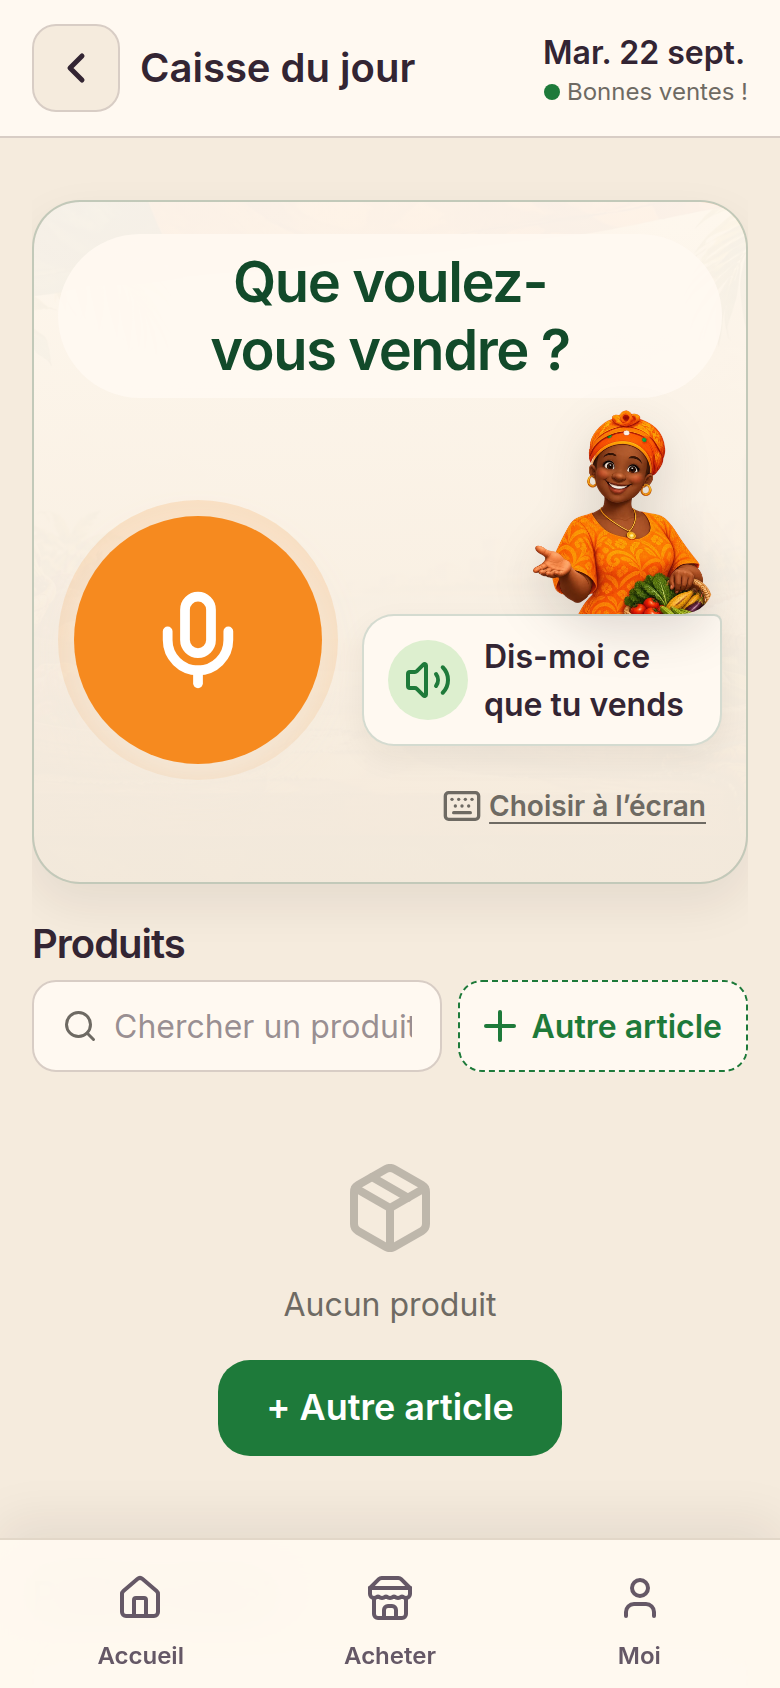
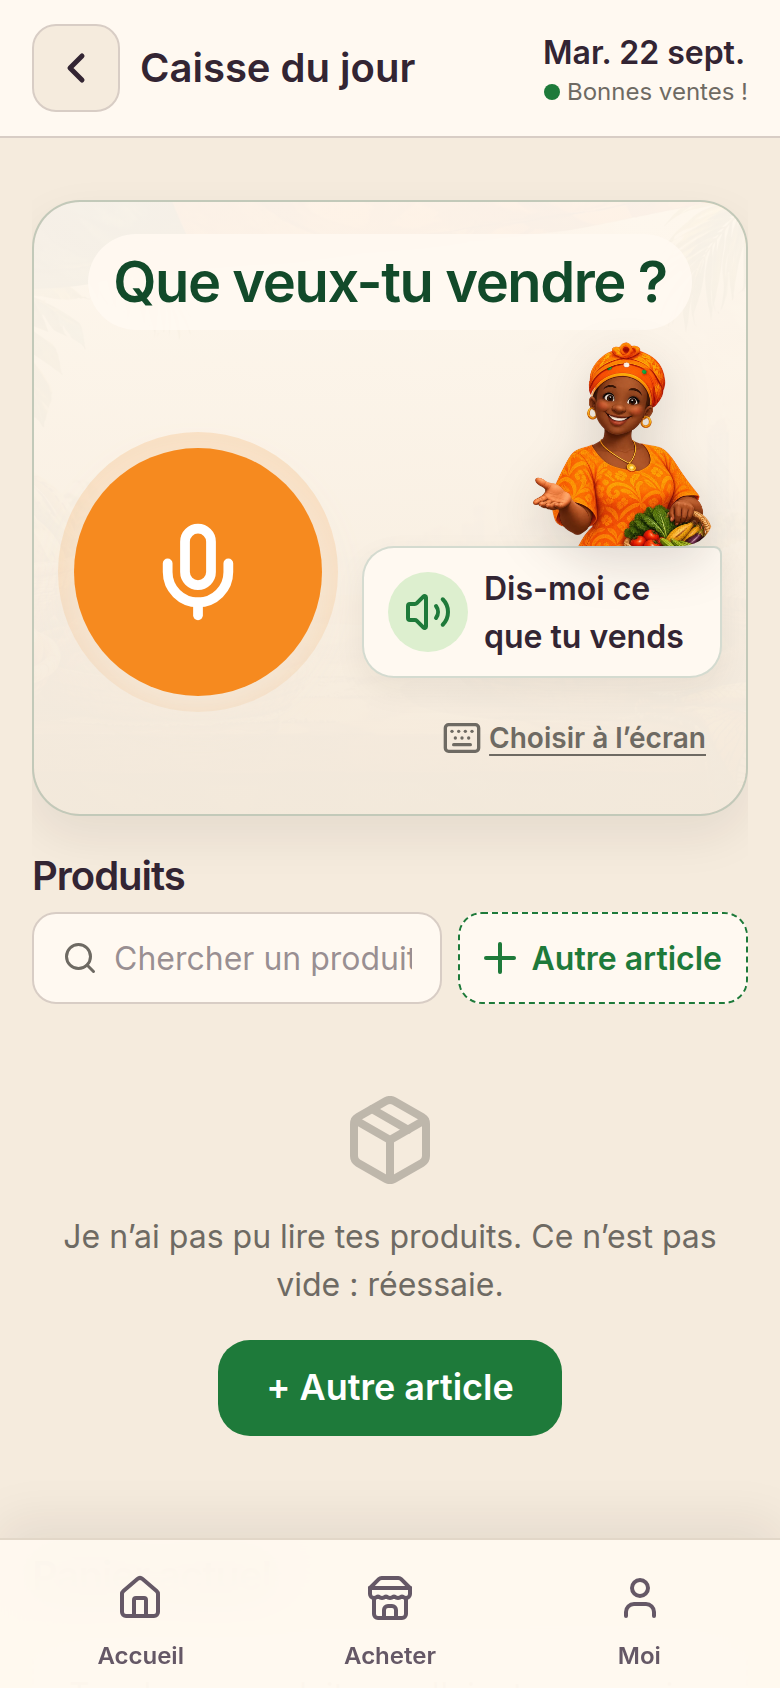
caisse(CAI-01/02): « Aucun produit » cesse de mentir, et Tantie tutoie
GARDE-ASSOUPLIE: le litteral « Que voulez-vous vendre ? » etait fige comme H1
par caisseCharte.test.mts. C'est LUI qui tenait le vouvoiement : Patrick a
ordonne de le fermer (22/09/2026, « ferme le vouvoiement restant a l'ecran et
a voix haute »). L'assertion n'est pas supprimee, elle est REMPLACEE par une
plus forte : le H1 ne doit porter aucun texte en dur et lire la cle de
catalogue. Le compte d'assertions a neanmoins bouge — voir plus bas.

Ecran 5, le dernier du chemin de vente.

── CAI-01 : LE FAUX « AUCUN PRODUIT » ──────────────────────────────────────
Banc : « l'ecran a demande au serveur (6 lectures), n'a rien obtenu, et
affirme quand meme "Aucun produit" ». C'est l'ecran de VENTE. Une marchande
qui lit ca range son telephone et vend sans lui.

`loadProducts` avalait l'echec et se repliait sur le cache — la BONNE
decision sur un marche sans reseau. Mais cache vide aussi : la liste reste
`[]`, et `[]` s'affichait « Aucun produit ». La meme phrase pour « tu n'as
rien cree » et « je n'ai pas pu demander ».

L'echec est desormais CONSERVE, et `services/etatCatalogueCaisse.ts` —
troisieme jumeau volontaire apres etatVentesPassees et etatCaisseAccueil —
dit ce que l'ecran a le droit d'affirmer :

  attente    pas encore de reponse        « Je vais chercher tes produits… »
  illisible  demande, rien, cache vide    « Je n'ai pas pu lire tes produits.
                                             Ce n'est pas vide : reessaie. »
[…]

diff --git a/frontend_src/src/app/contexts/CaisseContext.tsx b/frontend_src/src/app/contexts/CaisseContext.tsx
@@ -10,6 +10,7 @@ import { API_URL } from '../utils/api';
 import { prixEffectif } from '../utils/promo.utils';
 import type { LigneDeVente, ProduitServeur, AliasSaisieProduit } from '../types/vente';
 import { jourLocal } from '../utils/jourLocal';
+import { etatCatalogueCaisse, type EtatCatalogueCaisse, type LectureCatalogue } from '../services/etatCatalogueCaisse';
 // Couche 2 offline : file d'attente durable des ventes/dépenses + synchro.
 import {
   enfilerOperation, synchroniser,
@@ -255,6 +256,11 @@ interface CaisseContextType {
   updateProduct: (id: string, updates: Partial<CaisseProduct>) => Promise<void>;
   deleteProduct: (id: string) => Promise<void>;
   refreshProducts: () => Promise<void>;
+  /** CAI-01 — ce que la caisse a le DROIT d'affirmer sur son catalogue.
+   *  Ne remplace pas `products` : il dit seulement pourquoi la liste
+   *  est ce qu'elle est. Un écran ne peut plus confondre « rien créé »
+   *  et « pas pu demander ». */
+  etatCatalogue: EtatCatalogueCaisse;
   
   // Transactions (alias)
   addTransaction: (tx: Omit<CaisseTransaction, 'id' | 'date'>) => Promise<void>;
@@ -295,6 +301,15 @@ export function CaisseProvider({ children }: { children: ReactNode }) {
   const [transactions, setTransactions] = useState<CaisseTransaction[]>([]);
   const [loading, setLoading] = useState(false);
   const [products, setProducts] = useState<CaisseProduct[]>([]);
+  // ── CAI-01 — OÙ EN EST LA LECTURE DU CATALOGUE ───────────────────────────
+  // `loadProducts` avale son échec et se replie sur le cache du téléphone :
+  // c'est la BONNE décision sur un marché sans réseau. Mais quand le cache est
+  // vide lui aussi, la liste reste `[]` — et `[]` s'affichait « Aucun produit »,
+  // la même phrase que « tu n'as rien créé ». Deux situations, une phrase.
+  // On CONSERVE donc l'information au lieu de la perdre : ce que la caisse a le
+  // droit d'affirmer se décide dans `services/etatCatalogueCaisse.ts`.
+  const [lectureCatalogue, setLectureCatalogue] = useState<LectureCatalogue>('jamais');
+  const [produitsDepuisCache, setProduitsDepuisCache] = useState(false);
   const [cart, setCart] = useState<CartItem[]>([]);
   const [selectedProduct, setSelectedProduct] = useState<CaisseProduct | null>(null);
 
@@ -764,7 +779,12 @@ export function CaisseProvider({ children }: { children: ReactNode }) {
   const restaurerDepuisCache = (cacheKey: string) => {
     try {
       const raw = localStorage.getItem(cacheKey);
-      if (raw) setProducts(JSON.parse(raw));
+      if (raw) {
+        setProducts(JSON.parse(raw));
+        // On NOTE que ces produits viennent du téléphone, pas du serveur.
+        // Les montrer est juste ; les présenter comme à jour ne l'est pas.
+        setProduitsDepuisCache(true);
+      }
     } catch { /* un cache illisible ne doit jamais casser l'écran */ }
   };
 
@@ -773,6 +793,7 @@ export function CaisseProvider({ children }: { children: ReactNode }) {
       try { const r = localStorage.getItem('julaba_auth_user'); const id = r ? (JSON.parse(r).id || 'anon') : 'anon'; return `julaba_cache_produits_${id}`; }
       catch { return 'julaba_cache_produits_anon'; }
     })();
+    setLectureCatalogue('chargement');
     try {
       // UN SERVEUR QUI RÉPOND MAL EST PIRE QU'UN SERVEUR ABSENT — corrigé le
       // 18/09/2026. Le catalogue restait VIDE sur un 500/503 alors que le cache
@@ -800,11 +821,15 @@ export function CaisseProvider({ children }: { children: ReactNode }) {
         promo_fin: p.promo_fin || null,
       }));
       setProducts(mapped);
+      setProduitsDepuisCache(false);
+      setLectureCatalogue('lu');
       // Cache local : derniers produits connus (vente/stock consultables hors-ligne).
       try { localStorage.setItem(cacheKey, JSON.stringify(mapped)); } catch { /* ignore */ }
     } catch (err: unknown) {
       console.warn('[CaisseContext] loadProducts failed:', err instanceof Error ? err.message : err);
-      // Hors-ligne : servir les derniers produits connus.
+      // Hors-ligne : servir les derniers produits connus. L'échec n'est plus
+      // avalé — il est CONSERVÉ, pour que l'écran cesse de dire « aucun ».
+      setLectureCatalogue('echec');
       restaurerDepuisCache(cacheKey);
     }
   }, []);
@@ -940,6 +965,12 @@ export function CaisseProvider({ children }: { children: ReactNode }) {
     updateProduct,
     deleteProduct,
     refreshProducts: loadProducts,
+    // La règle vit dans un module pur, pas ici : elle est relisible seule.
+    etatCatalogue: etatCatalogueCaisse({
+      lecture: lectureCatalogue,
+      nbProduits: products.length,
+      servisDepuisCache: produitsDepuisCache,
+    }),
     addTransaction,
     getSoldeJour,
     getVentesJour,

diff --git a/frontend_src/src/app/services/etatCatalogueCaisse.ts b/frontend_src/src/app/services/etatCatalogueCaisse.ts
@@ -1,0 +1,72 @@
+/**
+ * CE QUE LA CAISSE A LE DROIT D'AFFIRMER SUR LE CATALOGUE — CAI-01.
+ *
+ * LE DÉFAUT QU'ON FERME. Banc terrain, écran 5 : « ZÉRO QUI MENT — l'écran a
+ * demandé au serveur (6 lectures), n'a rien obtenu, et affirme quand même
+ * "Aucun produit" ». C'est l'écran de VENTE. Une marchande qui lit « Aucun
+ * produit » range son téléphone et vend sans lui.
+ *
+ * D'OÙ VENAIT L'AFFIRMATION. `CaisseContext.loadProducts` avale l'échec
+ * (`catch { console.warn(…) ; restaurerDepuisCache(…) }`). Le repli sur le
+ * cache est la BONNE décision — un marché n'a pas de réseau. Mais quand le
+ * cache est vide lui aussi, la liste reste `[]`, et `[]` s'affiche « Aucun
+ * produit » : la même phrase pour « tu n'as rien créé » et pour « je n'ai pas
+ * pu demander ». Deux situations, une seule phrase.
+ *
+ * TROISIÈME JUMEAU VOLONTAIRE, après `etatVentesPassees` (HIST-01) et
+ * `etatCaisseAccueil` (ACC-01) : trois écrans, une seule façon de dire « je ne
+ * sais pas ». Sur les branches non résolues, `nbProduits` N'EXISTE PAS — le
+ * compilateur refuse de l'afficher avant même le banc.
+ *
+ * CE MODULE NE LIT NI NE COMPTE RIEN. Il reçoit trois faits et rend un état.
+ */
+import type { LectureHistorique } from './etatVentesPassees';
+
+/** Réutilise le vocabulaire de HIST-01 : mêmes mots pour la même idée. */
+export type LectureCatalogue = LectureHistorique;
+
+export type EtatCatalogueCaisse =
+  /** Pas encore de réponse. Ni liste, ni « aucun ». */
+  | { readonly type: 'attente' }
+  /** On a demandé, on n'a rien obtenu, et le téléphone n'avait rien en réserve. */
+  | { readonly type: 'illisible' }
+  /** Le serveur n'a pas répondu, mais le téléphone se souvient. Ces produits
+   *  existent ; ils sont PÉRIMÉS, pas faux. On ne dit donc jamais « aucun ». */
+  | { readonly type: 'memoire'; readonly nbProduits: number }
+  /** Le serveur a répondu et il n'a rien : la SEULE situation où « aucun
+   *  produit » est vrai. */
+  | { readonly type: 'vide' }
+  /** Le serveur a répondu et il y a des produits. */
+  | { readonly type: 'liste'; readonly nbProduits: number };
+
+export interface FaitsCatalogueCaisse {
+  /** Où en est la dernière lecture du catalogue serveur. */
+  readonly lecture: LectureCatalogue;
+  /** Combien de produits la caisse porte À L'ÉCRAN, cache compris. */
+  readonly nbProduits: number;
+  /** Ces produits viennent-ils du cache du téléphone plutôt que du serveur ? */
+  readonly servisDepuisCache: boolean;
+}
+
+export function etatCatalogueCaisse(faits: FaitsCatalogueCaisse): EtatCatalogueCaisse {
+  const nbProduits = Math.max(0, Math.trunc(faits.nbProduits) || 0);
+
+  if (faits.lecture === 'echec') {
+    // Le cache a sauvé l'écran : on montre, mais on ne présente pas ça comme
+    // l'état du serveur. Sans cache, on ne sait rien — et on le dit.
+    return faits.servisDepuisCache && nbProduits > 0
+      ? { type: 'memoire', nbProduits }
+      : { type: 'illisible' };
+  }
+
+  if (faits.lecture === 'jamais' || faits.lecture === 'chargement') {
+    return nbProduits > 0 ? { type: 'memoire', nbProduits } : { type: 'attente' };
+  }
+
+  // LE SERVEUR A RÉPONDU. Une incohérence reste possible : il a répondu, la
+  // liste est vide, et l'écran annonce pourtant servir le cache (course entre
+  // deux rendus). Deux faits qui se contredisent ne font pas une certitude :
+  // on n'affirme pas « aucun produit ».
+  if (nbProduits === 0) return faits.servisDepuisCache ? { type: 'illisible' } : { type: 'vide' };
+  return { type: 'liste', nbProduits };
+}

diff --git a/frontend_src/src/app/components/marchand/POSCaisse.tsx b/frontend_src/src/app/components/marchand/POSCaisse.tsx
@@ -63,7 +63,7 @@ function POSCaisseInner() {
   // convention déjà en place dans JULABA (voir RoleDashboard, LoginPassword…),
   // donc lisible, testable, et vide quand on arrive autrement.
   const produitPreselectionne = ((location.state as { produitPreselectionne?: ProduitPreselectionne } | null)?.produitPreselectionne) ?? null;
-  const { products, cart, addToCart, removeFromCart, updateCartItemQuantity, updateCartItemPrice, clearCart, getTotalCart, enregistrerVente, refreshProducts, transactions } = useCaisse();
+  const { products, cart, addToCart, removeFromCart, updateCartItemQuantity, updateCartItemPrice, clearCart, getTotalCart, enregistrerVente, refreshProducts, transactions, etatCatalogue } = useCaisse();
   const { speak, reloadTransactions, user, isOnline } = useApp();
   const marchandNom = [user?.firstName, user?.lastName].filter(Boolean).join(' ') || (user as any)?.nom || 'Ma boutique';
   // La caisse SUIT le sous-profil (docs/SOUS_PROFILS_MARCHAND.md) : en négoce
@@ -1171,7 +1171,20 @@ function POSCaisseInner() {
           {filtered.length === 0 ? (
             <div style={{ textAlign:'center', padding:'var(--caisse-esp-7) 0', color:'var(--caisse-gris-texte)', font:'var(--caisse-font-texte)' }}>
               <Package size={48} style={{ margin:'0 auto var(--caisse-esp-3)', opacity:0.4 }} />
-              <p style={{ marginBottom:'var(--caisse-esp-4)' }}>Aucun produit</p>
+              {/* CAI-01 — « AUCUN PRODUIT » N'EST DIT QUE SI LE SERVEUR L'A RÉPONDU.
+                  Le banc : « l'écran a demandé au serveur, n'a rien obtenu, et
+                  affirme quand même "Aucun produit" ». C'est l'écran de VENTE :
+                  une marchande qui lit ça range son téléphone. Trois situations,
+                  trois phrases — jamais une seule pour toutes. */}
+              {etatCatalogue.type === 'illisible' ? (
+                <p style={{ marginBottom:'var(--caisse-esp-4)' }}>
+                  Je n’ai pas pu lire tes produits. Ce n’est pas vide&nbsp;: réessaie.
+                </p>
+              ) : etatCatalogue.type === 'attente' ? (
+                <p style={{ marginBottom:'var(--caisse-esp-4)' }}>Je vais chercher tes produits…</p>
+              ) : (
+                <p style={{ marginBottom:'var(--caisse-esp-4)' }}>Aucun produit</p>
+              )}
               <motion.button type="button" whileTap={{ scale:0.97 }} onClick={() => setShowLibre(true)}
                 style={{ minHeight:'var(--caisse-cible-tactile)', padding:'var(--caisse-esp-3) var(--caisse-esp-5)', borderRadius:'var(--caisse-rayon-4)', border:'none', background:'var(--caisse-vert)', color:'white', font:'var(--caisse-font-bouton)', cursor:'pointer', fontFamily:'inherit' }}>
                 + Autre article

diff --git a/frontend_src/src/app/i18n/voice/catalog.ts b/frontend_src/src/app/i18n/voice/catalog.ts
@@ -113,7 +113,7 @@ export const MESSAGES_TTS: readonly EntreeTts[] = [
   { id: 'TATA_QUESTION_CORRECTION', type: 'tts', domaine: 'vente', critiqueArgent: true, frActuel: 'Qu\'est-ce qui est faux ? Change la quantité, ou le prix.', frMarche: null, variables: [], audioMode: 'none', statut: 'migre', owner: 'manus', source: 'components/marchand/ConfirmationLigne.tsx:43' },
   { id: 'TATA_DEPENSE_MONTANT_INCOMPRIS', type: 'tts', domaine: 'depense', critiqueArgent: true, frActuel: 'Je n\'ai pas compris combien tu as dépensé. Redis-moi le montant.', frMarche: null, variables: [], audioMode: 'none', statut: 'migre', owner: 'manus', source: 'components/marchand/MicroVenteCaisse.tsx:259,272' },
   { id: 'TATA_MICRO_INTRO_PRESELECTION', type: 'tts', domaine: 'vente', critiqueArgent: false, frActuel: 'Appuie sur le micro, et dis ce que tu as vendu de {produit}.', frMarche: null, variables: ['produit'], audioMode: 'dynamic', statut: 'migre', owner: 'manus', source: 'components/marchand/MicroVenteCaisse.tsx:294' },
-  { id: 'TATA_QUE_VENDRE', type: 'tts', domaine: 'vente', critiqueArgent: false, frActuel: 'Que voulez-vous vendre ?', frMarche: null, variables: [], audioMode: 'none', statut: 'migre', owner: 'manus', source: 'components/marchand/MicroVenteCaisse.tsx:295', note: 'Aussi le H1 de l\'écran (texte affiché, hors i18n vocal).' },
+  { id: 'TATA_QUE_VENDRE', type: 'tts', domaine: 'vente', critiqueArgent: false, frActuel: 'Que veux-tu vendre ?', frMarche: null, variables: [], audioMode: 'none', statut: 'migre', owner: 'manus', source: 'components/marchand/MicroVenteCaisse.tsx:295', note: 'CAI-02 : disait « Que voulez-vous vendre ? ». Tantie TUTOIE — le catalogue vocal ne portait aucun vouvoiement, sauf celui-ci, qui partait aussi a voix haute au montage. Le H1 de l\'ecran lit desormais CETTE cle : une seule source.' },
   { id: 'TATA_PRODUIT_AJOUTE_BOUTIQUE', type: 'tts', domaine: 'vente', critiqueArgent: false, frActuel: 'C\'est fait. {produit} est dans ta boutique.', frMarche: null, variables: ['produit'], audioMode: 'dynamic', statut: 'migre', owner: 'manus', source: 'components/marchand/MicroVenteCaisse.tsx:312' },
   { id: 'TATA_AJOUT_BOUTIQUE_ECHEC', type: 'tts', domaine: 'vente', critiqueArgent: false, frActuel: 'Ça n\'a pas marché. Tu pourras l\'ajouter depuis Mon stock.', frMarche: null, variables: [], audioMode: 'none', statut: 'migre', owner: 'manus', source: 'components/marchand/MicroVenteCaisse.tsx:314' },
   { id: 'TATA_ON_NE_CHANGE_RIEN', type: 'tts', domaine: 'vente', critiqueArgent: false, frActuel: 'D\'accord, on ne change rien.', frMarche: null, variables: [], audioMode: 'none', statut: 'migre', owner: 'manus', source: 'components/marchand/MicroVenteCaisse.tsx:323' },

diff --git a/frontend_src/src/app/components/marchand/MicroVenteCaisse.tsx b/frontend_src/src/app/components/marchand/MicroVenteCaisse.tsx
@@ -464,9 +464,11 @@ export function MicroVenteCaisse({ produitPreselectionne = null, onIntentionEnca
   // La bulle de Tata : une INVITATION à répondre, pas une annonce (arbitrage
   // du 20/09/2026, maquette verte). Au repos elle ne répète pas le grand titre
   // qui est juste au-dessus (UI-02) : « Dis-moi ce que tu vends » — et non
-  // « Je vous écoute », parce que le micro n'écoute pas encore ; ce qui est DIT
+  // « Je t'écoute », parce que le micro n'écoute pas encore ; ce qui est DIT
   // à l'arrivée reste la question du titre (introLigne).
-  const bulle = isRecording ? 'Je vous écoute'
+  // CAI-02 : Tantie TUTOIE. Le catalogue vocal ne porte pas un vouvoiement ;
+  // cette bulle en portait un, seule de tout l'écran avec le grand titre.
+  const bulle = isRecording ? 'Je t’écoute'
     : isLoading ? 'Un instant…'
     : isSpeaking ? 'Tantie parle…'
     : isError ? "Je n'ai pas compris"
@@ -489,7 +491,12 @@ export function MicroVenteCaisse({ produitPreselectionne = null, onIntentionEnca
           ligne ; plus étroit, elle se coupe en deux lignes équilibrées
           (text-wrap: balance), jamais avec le « ? » orphelin. */}
       <h1 className="caisse-voice-question" style={{ font: 'var(--caisse-font-h1)', textWrap: 'balance' }}>
-        {produitPreselectionne ? produitPreselectionne.nom : 'Que voulez-vous vendre ?'}
+        {/* CAI-02 — LA QUESTION N'EST PLUS ÉCRITE DEUX FOIS. Elle vivait ici en
+            dur ET dans le catalogue (`TATA_QUE_VENDRE`), qui est ce qui se DIT
+            au montage. Deux copies d'une même phrase finissent toujours par
+            diverger — et c'est par là que le vouvoiement a survécu à l'oral
+            après avoir été vu à l'écran. Une seule source, désormais. */}
+        {produitPreselectionne ? produitPreselectionne.nom : t('TATA_QUE_VENDRE')}
       </h1>
 
       <div className="caisse-voice-row">

diff --git a/docs/parcours/BACKLOG-PARCOURS.md b/docs/parcours/BACKLOG-PARCOURS.md
@@ -125,6 +125,32 @@ Captures : `docs/parcours/captures/ecran-3/AVANT.png` · `APRES.png`.
 Garde-fou : `test:entree-numero-voix`. Ici le fichier n'était **pas** figé par
 VOICE-01 : correction sur place, sans module parallèle et sans règle en double.
 
+### S5 — Écran 5, Caisse · le dernier du chemin
+
+| Id | Défaut relevé par le banc | Statut |
+|---|---|---|
+| CAI-01 | **Faux « Aucun produit »** — l'écran de VENTE a demandé au serveur, n'a rien obtenu, et affirmait quand même. Une marchande qui lit ça range son téléphone. | **FERMÉ** |
+| CAI-02 | **Vouvoiement, à l'écran ET à voix haute** — « Que voulez-vous vendre ? » était le grand titre ET la phrase dite au montage ; « Je vous écoute » dans la bulle. | **FERMÉ** |
+| CAI-03 | **La question vivait en double** — en dur dans le H1 et dans le catalogue. C'est par là que le vouvoiement a survécu à l'oral après avoir été vu à l'écran. Le H1 lit désormais la clé. | **FERMÉ** |
+| CAI-04 | **Le périmètre d'argent a bougé** : `etatCatalogueCaisse.ts` y est entré (symbole `CaisseContext`). C'est correct — ce module décide ce que l'écran de vente affirme. Le figer demande `--figer-perimetre`. | **OUVERT** — décision de Patrick, jamais d'un agent |
+| CAI-05 | **Une assertion figée a été retirée** : `caisseCharte.test.mts` figeait le littéral « Que voulez-vous vendre ? » comme H1 — c'est lui qui tenait le vouvoiement. Remplacée par une assertion PLUS forte (le H1 ne porte aucun texte en dur et lit la clé), mais le compte d'assertions a bougé. Demande `--figer-gardes`. | **OUVERT** — décision de Patrick, jamais d'un agent |
+| CAI-06 | Le catalogue servi depuis le cache du téléphone est modélisé (état `memoire`) mais pas encore montré : une liste périmée est présentée comme à jour. | **OUVERT** — hors périmètre de ce lot (« pas de dettes voisines ») |
+
+**Preuve de fermeture** (banc, écran 5, sans réseau) :
+
+```
+avant : ZERO QUI MENT (« Aucun produit ») · vouvoie (écran ET voix)
+après : sortie 0 — muet non · impasses aucune · zero.ment false · vouvoie false
+        charte.ok TRUE (499 jetons) — premier écran entièrement vert du parcours
+        « Que veux-tu vendre ? »
+```
+
+Captures : `docs/parcours/captures/ecran-5/AVANT.png` · `APRES.png`.
+Gardes : `test:catalogue-caisse-etat` · `test:caisse-tutoie`.
+
+**Le banc lui-même était faux** : sa `preuve` attendait la phrase vouvoyante.
+Corrigé — la preuve suit l'écran, jamais l'inverse.
+
 ---
 
 ## Le reste du chemin — non commencé
@@ -133,7 +159,6 @@ Périmètre déclaré par Patrick : **écrans 1 → 5 uniquement** pour l'instan
 
 | Écran | Ce que le banc reproche | Statut |
 |---|---|---|
-| 5 — Caisse | `ZÉRO QUI MENT` (« Aucun produit ») · vouvoie (à l'écran ET à voix haute) | OUVERT |
 
 ## Les 25 portes — gelées
 

diff --git a/docs/langues/INVENTAIRE-VOIX.md b/docs/langues/INVENTAIRE-VOIX.md
@@ -438,8 +438,8 @@ Nature : `literal` = phrase fixe ; `template` = gabarit avec variables `{…}` ;
 | 443 | `speakMessage` | cle_i18n | TATA_PRODUIT_AJOUTE_BOUTIQUE |  |  |
 | 445 | `speakMessage` | cle_i18n | TATA_AJOUT_BOUTIQUE_ECHEC |  |  |
 | 454 | `speakMessage` | cle_i18n | TATA_ON_NE_CHANGE_RIEN |  |  |
-| 545 | `speak` | dynamique | dernierePhraseRef.current |  |  |
-| 545 | `speak` | dynamique | introLigne() |  |  |
+| 552 | `speak` | dynamique | dernierePhraseRef.current |  |  |
+| 552 | `speak` | dynamique | introLigne() |  |  |
 
 ### `components/marchand/PinConfirmModal.tsx` — auth
 
@@ -877,8 +877,8 @@ Nature : `literal` = phrase fixe ; `template` = gabarit avec variables `{…}` ;
 
 | Ligne | Fonction | Nature | Phrase / expression | Variables | Argent |
 |---:|---|---|---|---|:-:|
-| 322 | `speakMessage` | relais | id |  |  |
-| 434 | `direMessage` | dynamique | annonce.cle |  |  |
+| 337 | `speakMessage` | relais | id |  |  |
+| 449 | `direMessage` | dynamique | annonce.cle |  |  |
 
 ### `contexts/ObjectifContext.tsx` — marchand_autre
 
